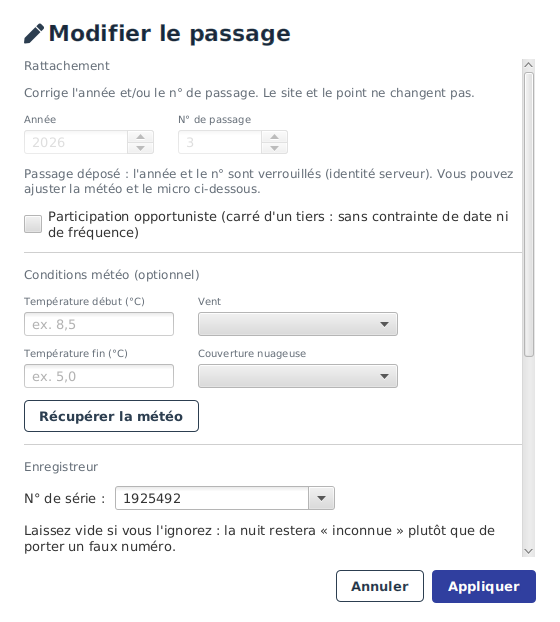
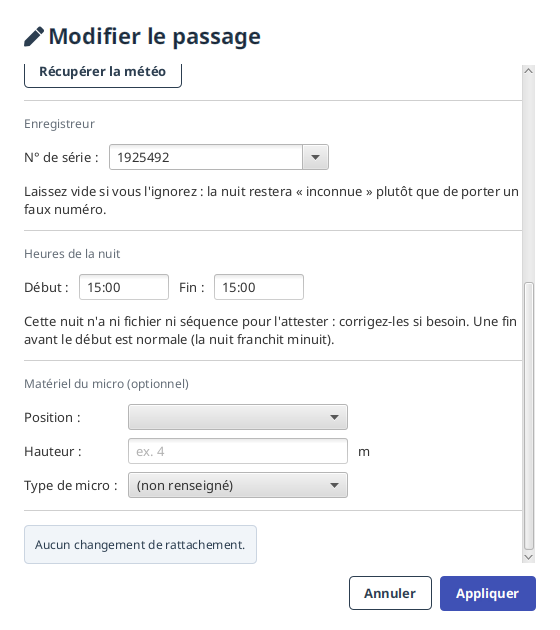
feat(captures): montrer les trois états que le chantier a créés
Passe 8 de #2554. Trois conséquences visibles n'apparaissaient dans aucune image, donc
personne ne pouvait les juger.

- `apercu-passage-squelette.png` : la fiche d'une nuit récupérée de Vigie-Chiro, connectée.
  C'est l'écran du défaut d'origine, celui où « Réactiver ce passage » était grisé sans dire
  pourquoi ; il y est désormais actif. Le seul aperçu d'un squelette montrait jusqu'ici la
  modale de rattachement, où ce bouton n'apparaît même pas.
- `apercu-sites-synchro-progression.png` et `apercu-connexion-progression.png` : les deux
  surfaces où la synchronisation s'annonce et se laisse interrompre. Le libellé et la
  fraction viennent du vrai balayage et de la vraie échelle, pas de nombres choisis pour
  l'image. Ce qu'elles ne peuvent pas montrer - la modale s'ouvrant PAR-DESSUS celle de
  connexion - est dit en commentaire et reste à juger en recette (case S8-5).

Deux corrections en chemin :

- le semis du squelette n'avait aucune session, un état que la plateforme ne produit jamais
  (la synchro pose toujours une session archivée). L'image documentait donc un cas
  impossible ;
- `apercu-passage-rattachement-squelette.png` annonçait des heures saisissables qui
  n'apparaissaient PAS dans l'image : elles vivent en bas d'un ScrollPane. La capture défile
  désormais jusqu'à elles, comme le ferait l'utilisateur.

Au passage, la ligne « Activite » du manifeste répétait deux captures quatre fois.

Refs #2554

diff --git a/src/main/java/fr/univ_amu/iut/passage/outils/CapturePassage.java b/src/main/java/fr/univ_amu/iut/passage/outils/CapturePassage.java
@@ -8,12 +8,15 @@ import com.google.inject.multibindings.OptionalBinder;
 import fr.univ_amu.iut.commun.api.ClientVigieChiro;
 import fr.univ_amu.iut.commun.di.PersistenceModule;
 import fr.univ_amu.iut.commun.model.AcquisitionAncrage;
+import fr.univ_amu.iut.commun.model.Horloge;
+import fr.univ_amu.iut.commun.model.LienVigieChiro;
 import fr.univ_amu.iut.commun.model.PortailVigieChiro;
 import fr.univ_amu.iut.commun.model.Prefixe;
 import fr.univ_amu.iut.commun.model.RapportAncrage;
 import fr.univ_amu.iut.commun.model.StatutWorkflow;
 import fr.univ_amu.iut.commun.model.Utilisateur;
 import fr.univ_amu.iut.commun.model.Verdict;
+import fr.univ_amu.iut.commun.model.Workspace;
 import fr.univ_amu.iut.commun.model.dao.LienVigieChiroDao;
 import fr.univ_amu.iut.commun.model.dao.UtilisateurDao;
 import fr.univ_amu.iut.commun.outils.ApercuFx;
@@ -31,6 +34,7 @@ import fr.univ_amu.iut.passage.model.DecompteAudio;
 import fr.univ_amu.iut.passage.model.EnregistrementOriginal;
 import fr.univ_amu.iut.passage.model.Enregistreur;
 import fr.univ_amu.iut.passage.model.FenetreObserveeNuit;
+import fr.univ_amu.iut.passage.model.HydratationSquelette;
 import fr.univ_amu.iut.passage.model.IndiceAcoustique;
 import fr.univ_amu.iut.passage.model.Passage;
 import fr.univ_amu.iut.passage.model.RapportReactivation;
@@ -73,6 +77,7 @@ import javafx.fxml.FXMLLoader;
 import javafx.scene.Parent;
 import javafx.scene.Scene;
 import javafx.scene.control.Button;
+import javafx.scene.control.ScrollPane;
 import javafx.scene.control.TextField;
 
 /// Outil de capture/mesure, utilisable tel quel.
@@ -88,7 +93,10 @@ import javafx.scene.control.TextField;
 ///   enregistreur, micro) **hors connexion** : la ligne VigieChiro y est masquée ;
 /// - `apercu-passage-rattachement-connecte.png` : la même, **connecté** — « Récupérer depuis
 ///   VigieChiro » et « Envoyer vers VigieChiro » apparaissent (#1839) ;
-/// - `apercu-passage-reactivation.png` : la modale « Réactiver ce passage » et ses deux barres (#1780).
+/// - `apercu-passage-reactivation.png` : la modale « Réactiver ce passage » et ses deux barres (#1780) ;
+/// - `apercu-passage-squelette.png` : la fiche d'une nuit **rapatriée de Vigie-Chiro**, connecté —
+///   audio absente, et « Réactiver ce passage » **actif** (#2554). C'est l'écran du défaut d'origine,
+///   où le bouton était grisé et ne disait pas pourquoi.
 ///
 /// On seede une base SQLite temporaire (un utilisateur, un site/point, deux passages vérifié/déposé
 /// avec leur session de 60 séquences). On fabrique le [ServicePassage] via Guice (socle + passage),
@@ -108,7 +116,12 @@ public final class CapturePassage {
     private static final String NUMERO_CARRE = "640380";
     private static final String CODE_POINT = "A1";
     private static final String NOM_SITE = "Étang de la Tuilière";
+
+    /// Participation Vigie-Chiro à laquelle la nuit squelette est rattachée. Aucun appel réseau n'a lieu :
+    /// seule la PRÉSENCE du lien compte pour la règle qui autorise la réactivation.
+    private static final String PARTICIPATION_DEMO = "6a53f5faae21902a597394d3";
     private static final String APERCU_ECRIT = "Apercu ecrit dans ";
+    private static final String FXML_RATTACHEMENT = "RattachementModale.fxml";
     private static final int NB_SEQUENCES = 60;
     private static final long VOLUME_ORIGINAUX_OCTETS = 5L * 1024 * 1024 * 1024; // 5 Go
     private static final long VOLUME_SEQUENCES_OCTETS = 180L * 1024 * 1024; // 180 Mo
@@ -168,8 +181,18 @@ public final class CapturePassage {
         // heures ne sont attestées par rien, donc saisissables (#1892) - l'inverse des deux captures
         // ci-dessus, où elles sont grisées. Sans elle, le seul cas où l'utilisateur PEUT corriger ses
         // heures n'était montré nulle part, alors que c'est le cas qui a motivé le geste.
-        long idSquelette = seederSquelette(source, idPoint);
-        rendreRattachement(injecteur, idSquelette, sortie.resolve("apercu-passage-rattachement-squelette.png"));
+        long idSquelette = seederSquelette(source, workspace, idPoint);
+        rendreRattachementSquelette(
+                injecteur, idSquelette, sortie.resolve("apercu-passage-rattachement-squelette.png"));
+        // La FICHE de cette même nuit, connecté (#2554). C'est l'écran du défaut d'origine : « Réactiver ce
+        // passage » y était grisé, parce que le gating exigeait des séquences que la synchro n'avait pas
+        // rapatriées. Aucune capture ne le montrait - la seule vue d'un squelette était la modale
+        // ci-dessus, où le bouton n'apparaît pas. Il faut la passerelle ET le rattachement à une
+        // participation : c'est cette combinaison que la règle interroge.
+        new LienVigieChiroDao(source)
+                .upsert(new LienVigieChiro(
+                        LienVigieChiro.ENTITE_PASSAGE, String.valueOf(idSquelette), PARTICIPATION_DEMO));
+        rendrePivot(injecteurConnecte(), idSquelette, sortie.resolve("apercu-passage-squelette.png"));
         // Modale « Réactiver ce passage » (#1780) : les deux barres de phase en cours (régénération pleine,
         // ancrage à mi-course), montrant que la barre ne reste plus figée pendant l'ancrage réseau.
         rendreModaleReactivation(injecteur, sortie.resolve("apercu-passage-reactivation.png"));
@@ -206,9 +229,24 @@ public final class CapturePassage {
                         // Le fournisseur se réclame DANS configure() : `getProvider` hors de cette méthode
                         // lève « The binder can only be used inside configure() ».
                         Provider<SourceDeDonnees> source = getProvider(SourceDeDonnees.class);
+                        Provider<Workspace> workspace = getProvider(Workspace.class);
+                        Provider<Horloge> horloge = getProvider(Horloge.class);
                         OptionalBinder.newOptionalBinder(binder(), SynchronisationParticipation.class)
                                 .setBinding()
                                 .toProvider(() -> passerelleDApercu(source.get()));
+                        // L'hydratation d'un squelette, posée pour la même raison et par le même
+                        // conditionnement qu'en production : ReconstructionModule ne se charge qu'avec
+                        // ConnexionModule, donc « connecté » veut bien dire « hydratation disponible ».
+                        // C'est ce que la règle de gating interroge pour activer « Réactiver ce passage »
+                        // sur une nuit sans séquence (#2554).
+                        OptionalBinder.newOptionalBinder(binder(), HydratationSquelette.class)
+                                .setBinding()
+                                .toProvider(() -> new HydratationSquelette(
+                                        source.get(),
+                                        new ClientVigieChiro("http://localhost:1", Optional::empty),
+                                        workspace.get(),
+                                        horloge.get(),
+                                        Optional.empty()));
                     }
 
                     private SynchronisationParticipation passerelleDApercu(SourceDeDonnees source) {
@@ -283,12 +321,35 @@ public final class CapturePassage {
     /// Charge `RattachementModale.fxml` (controller injecté par Guice), la démarre sur le passage et
     /// rend la modale hors-écran.
     private static void rendreRattachement(Injector injecteur, long idPassage, Path fichier) throws IOException {
-        FXMLLoader loader = new FXMLLoader(NavigationPassage.class.getResource("RattachementModale.fxml"));
+        FXMLLoader loader = new FXMLLoader(NavigationPassage.class.getResource(FXML_RATTACHEMENT));
         loader.setControllerFactory(injecteur::getInstance);
         Parent vue = loader.load();
         RattachementModaleController controleur = loader.getController();
         controleur.demarrer(idPassage, NUMERO_CARRE, CODE_POINT, () -> {});
         ApercuFx.enregistrerPng(new Scene(vue), fichier);
+        System.out.println(APERCU_ECRIT + fichier.toAbsolutePath());
+    }
+
+    /// La même modale sur une nuit **squelette**, mais **défilée jusqu'aux heures**.
+    ///
+    /// La capture existait déjà et sa légende annonçait les heures saisissables (#1892) - sauf qu'elles
+    /// vivent en bas d'un `ScrollPane` (#2496) et **n'apparaissaient pas dans l'image** : on documentait un
+    /// état par une photo qui ne le montrait pas. Constat de la passe 8 de #2554.
+    ///
+    /// On défile comme le ferait l'utilisateur, après une passe CSS + layout (le skin du `ScrollPane`
+    /// n'existe pas avant), plutôt que d'agrandir la fenêtre : l'écran headless est figé à 1000 px de haut.
+    private static void rendreRattachementSquelette(Injector injecteur, long idPassage, Path fichier)
+            throws IOException {
+        FXMLLoader loader = new FXMLLoader(NavigationPassage.class.getResource(FXML_RATTACHEMENT));
+        loader.setControllerFactory(injecteur::getInstance);
+        Parent vue = loader.load();
+        RattachementModaleController controleur = loader.getController();
+        controleur.demarrer(idPassage, NUMERO_CARRE, CODE_POINT, () -> {});
+        Scene scene = new Scene(vue);
+        vue.applyCss();
+        vue.layout();
+        ((ScrollPane) scene.lookup(".corps-modale")).setVvalue(1.0);
+        ApercuFx.enregistrerPng(scene, fichier);
         System.out.println(APERCU_ECRIT + fichier.toAbsolutePath());
     }
 
@@ -303,7 +364,7 @@ public final class CapturePassage {
     /// INFO et non ERREUR : un champ mal rempli n'est pas une panne. C'est exactement la nuance que le
     /// canal, nomme « messageErreur », ne pouvait pas porter avant ce chantier.
     private static void rendreRattachementRetour(Injector injecteur, long idPassage, Path fichier) throws IOException {
-        FXMLLoader loader = new FXMLLoader(NavigationPassage.class.getResource("RattachementModale.fxml"));
+        FXMLLoader loader = new FXMLLoader(NavigationPassage.class.getResource(FXML_RATTACHEMENT));
         loader.setControllerFactory(injecteur::getInstance);
         Parent vue = loader.load();
         RattachementModaleController controleur = loader.getController();
@@ -411,8 +472,8 @@ public final class CapturePassage {
     /// Ses bornes sont volontairement **aberrantes** (`15:00 → 15:00`) : c'est l'état réel qu'a produit le
     /// cliquet de #1860 sur le terrain, celui qu'on vient réparer. Une capture qui montrerait une nuit
     /// déjà juste n'illustrerait pas le besoin.
-    private static long seederSquelette(SourceDeDonnees source, long idPoint) {
-        return new PassageDao(source)
+    private static long seederSquelette(SourceDeDonnees source, Path workspace, long idPoint) {
+        long idPassage = new PassageDao(source)
                 .insert(new Passage(
                         null,
                         3,
@@ -430,6 +491,20 @@ public final class CapturePassage {
                         ENREGISTREUR,
                         null))
                 .id();
+        // Sa session archivée, SANS original ni séquence : c'est ce que pose la synchro
+        // (CreationPassageArchive), et c'est ce qui distingue un squelette d'une nuit sans dossier. Sans
+        // elle, la capture montrait un état que la plateforme ne produit jamais - et la réactivation, qui
+        // relit le préfixe depuis ce chemin, n'aurait eu nulle part où le lire.
+        new SessionDao(source)
+                .insert(new SessionDEnregistrement(
+                        null,
+                        workspace
+                                .resolve(new Prefixe(NUMERO_CARRE, 2026, 3, CODE_POINT).nomDossierSession())
+                                .toString(),
+                        0L,
+                        0L,
+                        idPassage));
+        return idPassage;
     }
 
     private static long seederPassage(

diff --git a/src/main/java/fr/univ_amu/iut/connexion/outils/CaptureConnexion.java b/src/main/java/fr/univ_amu/iut/connexion/outils/CaptureConnexion.java
@@ -3,8 +3,11 @@ package fr.univ_amu.iut.connexion.outils;
 import com.google.inject.Guice;
 import com.google.inject.Injector;
 import fr.univ_amu.iut.commun.di.PersistenceModule;
+import fr.univ_amu.iut.commun.model.EchelleProgression;
+import fr.univ_amu.iut.commun.model.Progression;
 import fr.univ_amu.iut.commun.outils.ApercuFx;
 import fr.univ_amu.iut.commun.outils.ModuleCaptureCommun;
+import fr.univ_amu.iut.commun.view.DialogueProgression;
 import fr.univ_amu.iut.connexion.di.ConnexionModule;
 import fr.univ_amu.iut.connexion.view.NavigationConnexion;
 import java.io.IOException;
@@ -17,11 +20,13 @@ import javafx.fxml.FXMLLoader;
 import javafx.scene.Parent;
 import javafx.scene.Scene;
 import javafx.scene.control.Button;
+import javafx.scene.layout.VBox;
 
 /// Outil de capture/mesure, utilisable tel quel.
 ///
-/// Capture la **modale « Connexion VigieChiro »** (#727) en **deux états** : `apercu-connexion.png`
-/// (« non connecté », bandeau masqué) et `apercu-connexion-bandeau.png` (bandeau de statut affiché).
+/// Capture la **modale « Connexion VigieChiro »** (#727) en **trois états** : `apercu-connexion.png`
+/// (« non connecté », bandeau masqué), `apercu-connexion-bandeau.png` (bandeau de statut affiché) et
+/// `apercu-connexion-progression.png` (la modale de progression que la connexion ouvre depuis #2558).
 /// Le workspace pointe sur un dossier temporaire vierge, donc aucun token n'est stocké et aucun appel
 /// réseau n'a lieu. Le second état documente le cas où les boutons du bas débordaient (#1534) : sans
 /// capture, la revue visuelle ne pouvait pas l'attraper.
@@ -30,6 +35,8 @@ import javafx.scene.control.Button;
 /// connexion), puis rend la scène hors-écran via [ApercuFx]. Lancement headless :
 /// `.github/assets/capture-screenshots.sh` (Headless Platform JavaFX 26).
 public final class CaptureConnexion {
+
+    private static final String APERCU_ECRIT = "Apercu ecrit dans ";
 
     private CaptureConnexion() {}
 
@@ -64,8 +71,30 @@ public final class CaptureConnexion {
         Parent vue = loader.load();
         Path fichier = sortie.resolve("apercu-connexion.png");
         ApercuFx.enregistrerPng(new Scene(vue), fichier);
-        System.out.println("Apercu ecrit dans " + fichier.toAbsolutePath());
+        System.out.println(APERCU_ECRIT + fichier.toAbsolutePath());
         capturerAvecBandeau(sortie);
+        capturerProgression(sortie);
+    }
+
+    /// Troisième état : la **modale de progression** ouverte par la connexion (#2558).
+    ///
+    /// Se connecter n'est plus instantané : depuis #2554, la connexion rejoue les rapprocheurs, et l'un
+    /// d'eux rapatrie les nuits du compte avec leur contenu. L'opération dure, elle s'annonce donc, et elle
+    /// se laisse **interrompre** - ce que le seul bandeau « Vérification en cours… » ne faisait pas.
+    ///
+    /// L'étape montrée est celle qu'émet réellement le balayage (`ExecutionParallele`, libellé « Nuits
+    /// k/N ») et sa fraction vient de la vraie échelle, pas d'un nombre choisi pour l'image.
+    ///
+    /// ⚠ Ce que cette capture **ne peut pas** montrer : la modale s'ouvre **par-dessus** celle de
+    /// connexion, et un aperçu rend une scène, pas une pile de fenêtres. La superposition se juge en
+    /// recette (case S8-5).
+    private static void capturerProgression(Path sortie) throws IOException {
+        VBox contenu = DialogueProgression.apercu(
+                "Connexion à Vigie-Chiro",
+                new Progression("Nuits 7/12", EchelleProgression.autonome(12).fraction(7)));
+        Path fichier = sortie.resolve("apercu-connexion-progression.png");
+        ApercuFx.enregistrerPng(new Scene(contenu), fichier);
+        System.out.println(APERCU_ECRIT + fichier);
     }
 
     /// Second état : le bandeau de statut affiché. C'est là que le bug #1534 se voyait - les boutons du
@@ -84,7 +113,7 @@ public final class CaptureConnexion {
         ((Button) vue.lookup("#boutonConnecter")).fire();
         Path avecBandeau = sortie.resolve("apercu-connexion-bandeau.png");
         ApercuFx.enregistrerPng(new Scene(vue), avecBandeau);
-        System.out.println("Apercu ecrit dans " + avecBandeau.toAbsolutePath());
+        System.out.println(APERCU_ECRIT + avecBandeau.toAbsolutePath());
     }
 
     /// Injecteur (partiel) utilisé par cet outil de capture. Exposé pour le garde-fou de câblage (test).

diff --git a/src/main/java/fr/univ_amu/iut/sites/outils/CaptureEcrans.java b/src/main/java/fr/univ_amu/iut/sites/outils/CaptureEcrans.java
@@ -5,8 +5,10 @@ import com.google.inject.Injector;
 import com.google.inject.multibindings.OptionalBinder;
 import com.google.inject.util.Modules;
 import fr.univ_amu.iut.commun.di.RacineInjecteur;
+import fr.univ_amu.iut.commun.model.EchelleProgression;
 import fr.univ_amu.iut.commun.model.Horloge;
 import fr.univ_amu.iut.commun.model.HorlogeFigee;
+import fr.univ_amu.iut.commun.model.Progression;
 import fr.univ_amu.iut.commun.model.Protocole;
 import fr.univ_amu.iut.commun.model.StatutWorkflow;
 import fr.univ_amu.iut.commun.model.Utilisateur;
@@ -17,6 +19,7 @@ import fr.univ_amu.iut.commun.outils.AttenteTuiles;
 import fr.univ_amu.iut.commun.outils.ModuleCaptureCommun;
 import fr.univ_amu.iut.commun.persistence.MigrationSchema;
 import fr.univ_amu.iut.commun.persistence.SourceDeDonnees;
+import fr.univ_amu.iut.commun.view.DialogueProgression;
 import fr.univ_amu.iut.commun.view.OuvrirImportation;
 import fr.univ_amu.iut.passage.model.Enregistreur;
 import fr.univ_amu.iut.passage.model.Passage;
@@ -38,6 +41,7 @@ import javafx.application.Platform;
 import javafx.fxml.FXMLLoader;
 import javafx.scene.Parent;
 import javafx.scene.Scene;
+import javafx.scene.layout.VBox;
 
 /// Outil de capture/mesure, utilisable tel quel.
 ///
@@ -127,6 +131,7 @@ public final class CaptureEcrans {
         capturerModaleCreation(creerInjecteur(), seed.site(), sortie.resolve("apercu-sites-modale-point-creation.png"));
         capturerModaleSiteEdition(creerInjecteur(), seed.site(), sortie.resolve("apercu-sites-modale-site.png"));
         capturerModaleSiteCreation(creerInjecteur(), sortie.resolve("apercu-sites-modale-site-creation.png"));
+        capturerSynchroEnCours(sortie.resolve("apercu-sites-synchro-progression.png"));
 
         // État vide : base neuve (juste un utilisateur, aucun site) → accueil M-Sites en état initial.
         Path workspaceVide = Files.createTempDirectory("vc-capture-sites-vide");
@@ -292,4 +297,20 @@ public final class CaptureEcrans {
 
     /// Donnees seedees reutilisees par les ecrans detail et modale.
     private record Seed(Site site, PointDEcoute point, Site siteSansPassage) {}
+
+    /// La **modale de progression de la synchronisation** (#2558), figée sur une étape.
+    ///
+    /// « Synchroniser depuis VigieChiro » posait un simple voile opaque : ça travaillait, sans dire où on
+    /// en était ni laisser renoncer. Depuis #2554 la synchro rapatrie aussi le CONTENU de chaque nuit, donc
+    /// elle dure - une opération qui dure doit s'annoncer et se laisser interrompre.
+    ///
+    /// Le libellé est celui qu'émet réellement le balayage (`ExecutionParallele` : « Nuits k/N ») et la
+    /// fraction vient de la vraie échelle, pour que l'image dise ce que l'utilisateur lit.
+    private static void capturerSynchroEnCours(Path fichier) throws IOException {
+        VBox contenu = DialogueProgression.apercu(
+                "Synchronisation Vigie-Chiro",
+                new Progression("Nuits 7/12", EchelleProgression.autonome(12).fraction(7)));
+        ApercuFx.enregistrerPng(new Scene(contenu), fichier);
+        System.out.println("Apercu ecrit dans " + fichier);
+    }
 }
